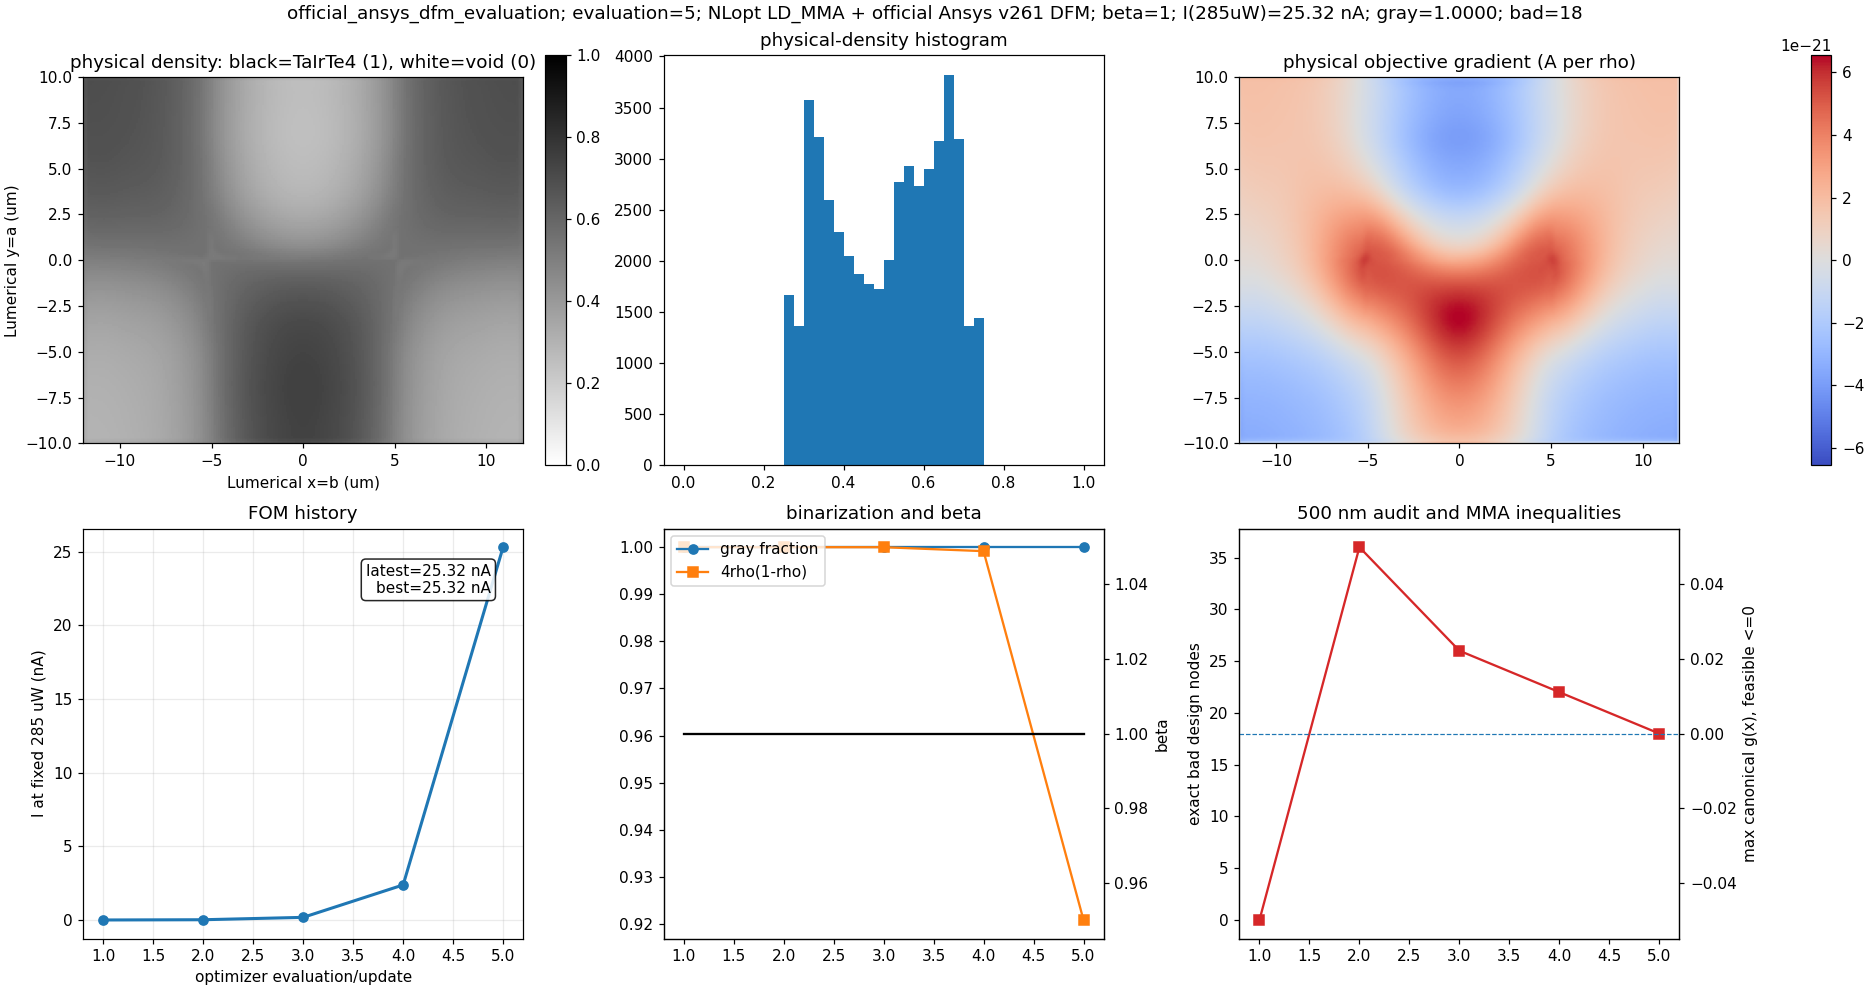
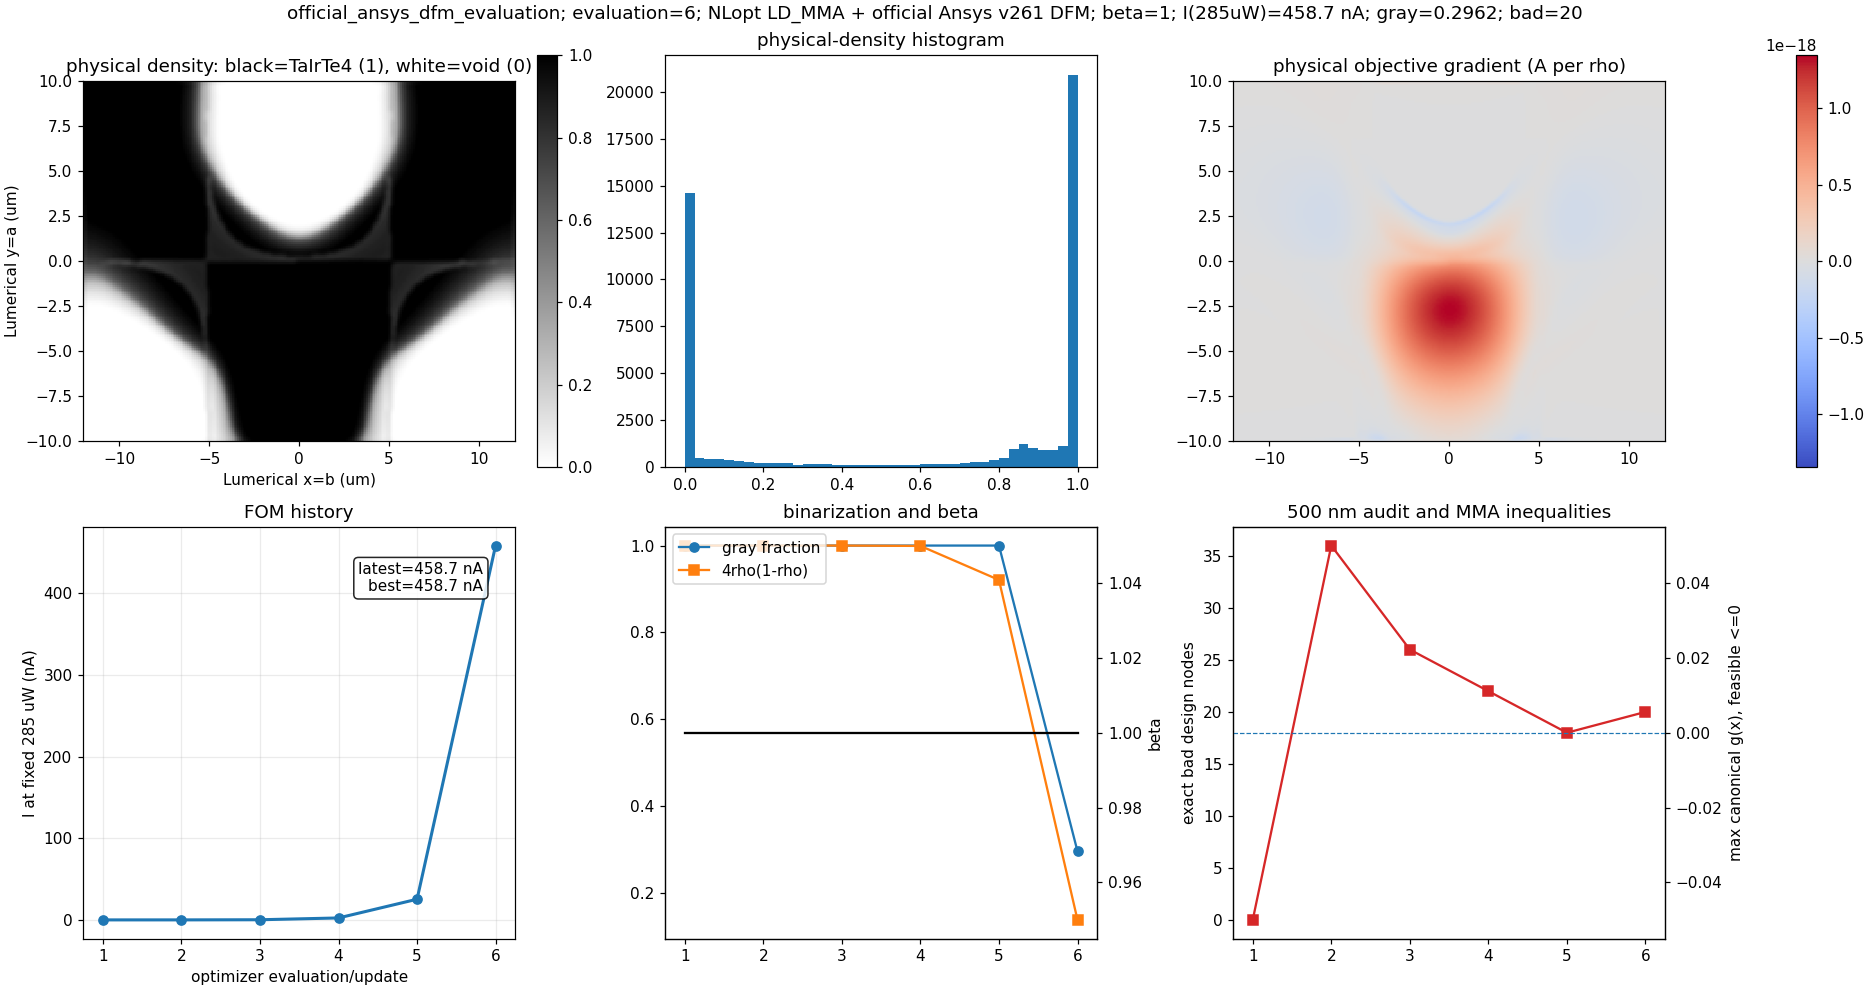
Update MMA optimization artifacts

diff --git a/photothermal_pte/optimization_runs/tairte4_flake_topology/run_official_dfm_exact_repair_optimization.py b/photothermal_pte/optimization_runs/tairte4_flake_topology/run_official_dfm_exact_repair_optimization.py
@@ -59,6 +59,16 @@ MAXIMUM_EVALUATIONS = {
     64.0: 8,
     128.0: 8,
 }
+STAGE_TRUST_RADIUS = {
+    1.0: 0.20,
+    2.0: 0.20,
+    4.0: 0.15,
+    8.0: 0.12,
+    16.0: 0.10,
+    32.0: 0.08,
+    64.0: 0.06,
+    128.0: 0.05,
+}
 REFERENCE_INCIDENT_POWER_W = 285.0e-6
 
 
@@ -168,6 +178,11 @@ def main() -> int:
     manifest["continuation"] = {
         "beta_schedule": list(BETA_SCHEDULE),
         "maximum_evaluations_per_beta": MAXIMUM_EVALUATIONS,
+        "stage_trust_radius": STAGE_TRUST_RADIUS,
+        "trust_region_interpretation": (
+            "fixed bounds around each beta-stage start; not a fixed "
+            "per-evaluation update or normalized-gradient step"
+        ),
         "same_beta_restart_loop": False,
         "official_dfm": DFM_CONTRACT.audit(),
         "exact_final_gate": "independent 500-nm binary opening audit",
@@ -211,12 +226,17 @@ def main() -> int:
                 "beta_factor": 2.0,
             },
         )
+        trust_radius = STAGE_TRUST_RADIUS[beta]
+        stage_lower = np.maximum(0.0, latent - trust_radius)
+        stage_upper = np.minimum(1.0, latent + trust_radius)
         optimizer = make_optimizer(
             evaluator,
             0,
             xtol_rel=1.0e-8,
             ftol_rel=1.0e-5,
             maxeval=MAXIMUM_EVALUATIONS[beta],
+            lower_bounds=stage_lower,
+            upper_bounds=stage_upper,
         )
         emit(
             events,
@@ -224,6 +244,13 @@ def main() -> int:
             beta=beta,
             maximum_evaluations=MAXIMUM_EVALUATIONS[beta],
             official_dfm_scaling=DFM_CONTRACT.penalty_scaling(beta),
+            stage_trust_radius=trust_radius,
+            stage_latent_lower_range=[
+                float(np.min(stage_lower)), float(np.max(stage_lower))
+            ],
+            stage_latent_upper_range=[
+                float(np.min(stage_upper)), float(np.max(stage_upper))
+            ],
         )
         optimum = optimizer.optimize(latent.ravel()).reshape(MAPPING.shape)
         result_code = optimizer.last_optimize_result()

diff --git a/photothermal_pte/optimization_runs/run_055_bounded_official_dfm_exact_repair_Ea/run.py b/photothermal_pte/optimization_runs/run_055_bounded_official_dfm_exact_repair_Ea/run.py
@@ -1,0 +1,62 @@
+#!/usr/bin/env python3
+"""Launch fresh trust-region Run055 on an explicitly selected GPU."""
+
+from __future__ import annotations
+
+import os
+from pathlib import Path
+import subprocess
+import sys
+
+
+HERE = Path(__file__).resolve().parent
+REPOSITORY = HERE.parents[2]
+ARTIFACT_ROOT = Path("/data/seunghyun/tairte4/artifacts/tairte4_contact_anchored")
+RAW = ARTIFACT_ROOT / "run055_bounded_official_dfm_exact_repair_Ea_evaporated_v1"
+BASE_FSP = ARTIFACT_ROOT / (
+    "production_input_uniform_rho0p5_Ea_forward_v1/tairte4_flake_forward_Ea.fsp"
+)
[1 lines of base64/hex data omitted]
+JACOBIAN = ARTIFACT_ROOT / "production_input_component_yee_jacobian_v1"
+
+
+def main() -> int:
+    gpu = int(os.environ.get("RUN055_GPU", "1"))
+    environment = dict(os.environ)
+    environment.update(
+        {
+            "CUDA_VISIBLE_DEVICES": str(gpu),
+            "TAIRTE4_TOPOLOGY_GEOMETRY": "contact_anchored",
+            "TAIRTE4_SIO2_INTERFACE_SCENARIO": "evaporated",
+            "LUMERICAL_LICENSE_RETRY_SECONDS": "30",
+            "XDG_CONFIG_HOME": f"/tmp/seunghyun_lumerical_run055_gpu{gpu}",
+            "MPLCONFIGDIR": f"/tmp/seunghyun_matplotlib_run055_gpu{gpu}",
+        }
+    )
+    command = [
+        sys.executable,
+        "-u",
+        "-m",
+        "photothermal_pte.optimization_runs.tairte4_flake_topology.run_official_dfm_exact_repair_optimization",
+        "--polarization",
+        "Ea",
+        "--gpu",
+        str(gpu),
+        "--raw-root",
+        str(RAW),
+        "--published-dir",
+        str(HERE / "results"),
+        "--base-fsp",
+        str(BASE_FSP),
+        "--base-sha256",
+        BASE_SHA256,
+        "--jacobian-dir",
+        str(JACOBIAN),
+        "--constraint-device",
+        "cuda:0",
+    ]
+    return subprocess.run(command, cwd=REPOSITORY, env=environment).returncode
+
+
+if __name__ == "__main__":
+    raise SystemExit(main())

diff --git a/photothermal_pte/optimization_runs/tairte4_flake_topology/run_nlopt_mma_optimization.py b/photothermal_pte/optimization_runs/tairte4_flake_topology/run_nlopt_mma_optimization.py
@@ -255,7 +255,7 @@ class StageEvaluator:
             ),
             "objective_scaled_minimize": float(objective_scaled),
             "raw_current_objective_scaled_minimize": float(
-                objective_scaled - morphology_penalty
+                objective_scaled - morphology_penalty - ansys_dfm_penalty
             ),
             "morphology_penalty_weight": self.morphology_penalty_weight,
             "morphology_aggregation": self.morphology_aggregation,
@@ -353,11 +353,23 @@ def make_optimizer(
     xtol_rel: float | None = None,
     ftol_rel: float | None = None,
     maxeval: int | None = None,
+    lower_bounds: np.ndarray | None = None,
+    upper_bounds: np.ndarray | None = None,
 ) -> nlopt.opt:
     variable_count = int(np.prod(MAPPING.shape))
     optimizer = nlopt.opt(nlopt.LD_MMA, variable_count)
-    optimizer.set_lower_bounds(np.zeros(variable_count))
-    optimizer.set_upper_bounds(np.ones(variable_count))
+    lower = np.zeros(variable_count) if lower_bounds is None else np.asarray(
+        lower_bounds, dtype=np.float64
+    ).reshape(-1)
+    upper = np.ones(variable_count) if upper_bounds is None else np.asarray(
+        upper_bounds, dtype=np.float64
+    ).reshape(-1)
+    if lower.shape != (variable_count,) or upper.shape != (variable_count,):
+        raise ValueError("LD_MMA bound shape does not match the design")
+    if np.any(lower < 0.0) or np.any(upper > 1.0) or np.any(lower >= upper):
+        raise ValueError("LD_MMA bounds must satisfy 0 <= lower < upper <= 1")
+    optimizer.set_lower_bounds(lower)
+    optimizer.set_upper_bounds(upper)
     optimizer.set_min_objective(evaluator.objective)
     if constraint_count:
         optimizer.add_inequality_mconstraint(

diff --git a/photothermal_pte/optimization_runs/tairte4_flake_topology/tests/test_nlopt_mma_driver.py b/photothermal_pte/optimization_runs/tairte4_flake_topology/tests/test_nlopt_mma_driver.py
@@ -116,3 +116,13 @@ def test_native_ld_mma_scale_controls_reach_nlopt() -> None:
     assert optimizer.get_param("rho_init", -1.0) == 10.0
     assert optimizer.get_param("always_improve", -1.0) == 1.0
     assert optimizer.get_param("inner_gradients", -1.0) == 1.0
+
+
+def test_bounded_official_dfm_driver_prevents_low_beta_endpoint_collapse() -> None:
+    source = Path(__file__).parents[1] / "run_official_dfm_exact_repair_optimization.py"
+    text = source.read_text()
+    assert "STAGE_TRUST_RADIUS" in text
+    assert "1.0: 0.20" in text
+    assert "lower_bounds=stage_lower" in text
+    assert "upper_bounds=stage_upper" in text
+    assert "same_beta_restart_loop" in text

diff --git a/photothermal_pte/optimization_runs/run_054_official_dfm_exact_repair_Ea/README.md b/photothermal_pte/optimization_runs/run_054_official_dfm_exact_repair_Ea/README.md
@@ -15,3 +15,10 @@ Fresh, uniform-density (`rho=0.5`) TaIrTe4-flake topology optimization.
 The driver does not use the old same-beta recovery loop, exact-bad-cell veto,
 manual move limit, Adam update, or empirical gradient rescaling.
 
+## Diagnostic stop
+
+This first unbounded version was intentionally stopped after evaluation 6.
+NLopt expanded its low-beta asymptotes until the latent field reached both
+endpoints while beta was still 1.  The physical solve passed, but this violates
+the intended gray-exploration contract.  The result is retained as a diagnostic
+and is not a completed optimization.

diff --git a/photothermal_pte/optimization_runs/run_055_bounded_official_dfm_exact_repair_Ea/README.md b/photothermal_pte/optimization_runs/run_055_bounded_official_dfm_exact_repair_Ea/README.md
@@ -1,0 +1,15 @@
+# Run055 — bounded official Ansys DFM + exact repair, E || a
+
+Fresh replacement for the stopped Run054 diagnostic.
+
+- uniform latent density 0.5
+- Lumerical `x=b`, `y=a`, `z=c`
+- top/bottom contact anchoring
+- `E || a`
+- evaporated-SiO2 interface scenario
+- NLopt LD_MMA, no Adam and no gradient normalization
+- one bounded stage per beta
+- beta-stage trust region prevents beta-1 endpoint collapse
+- official Ansys v261 DFM indicator/gradient activates only for beta > 12
+- independent exact 500 nm solid/void repair and fresh physics evaluation
+
